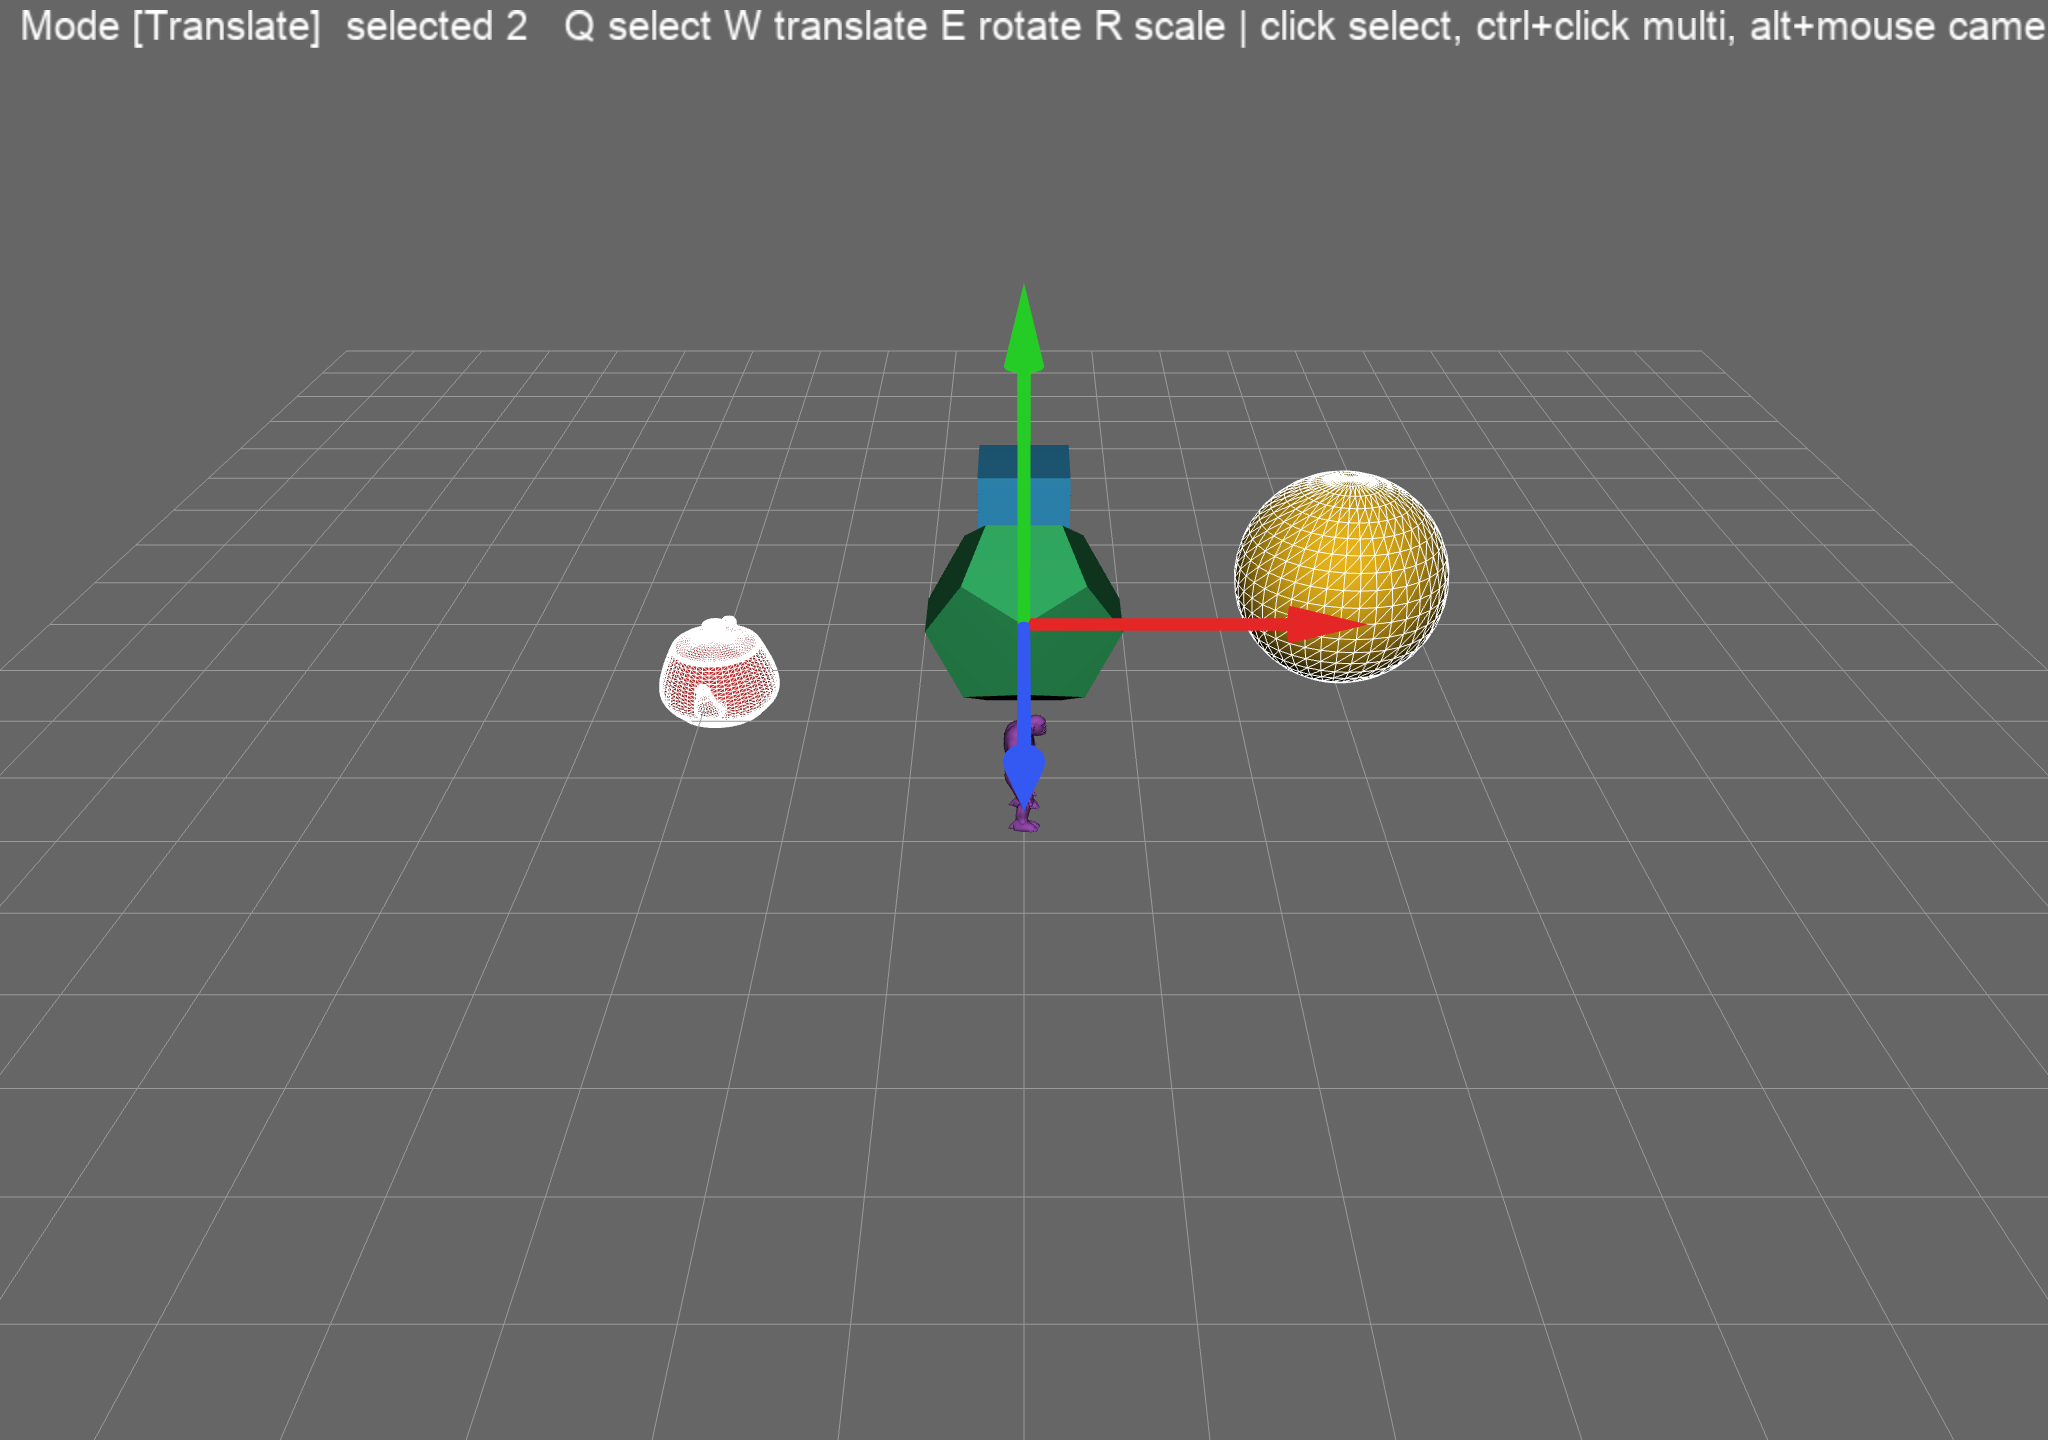
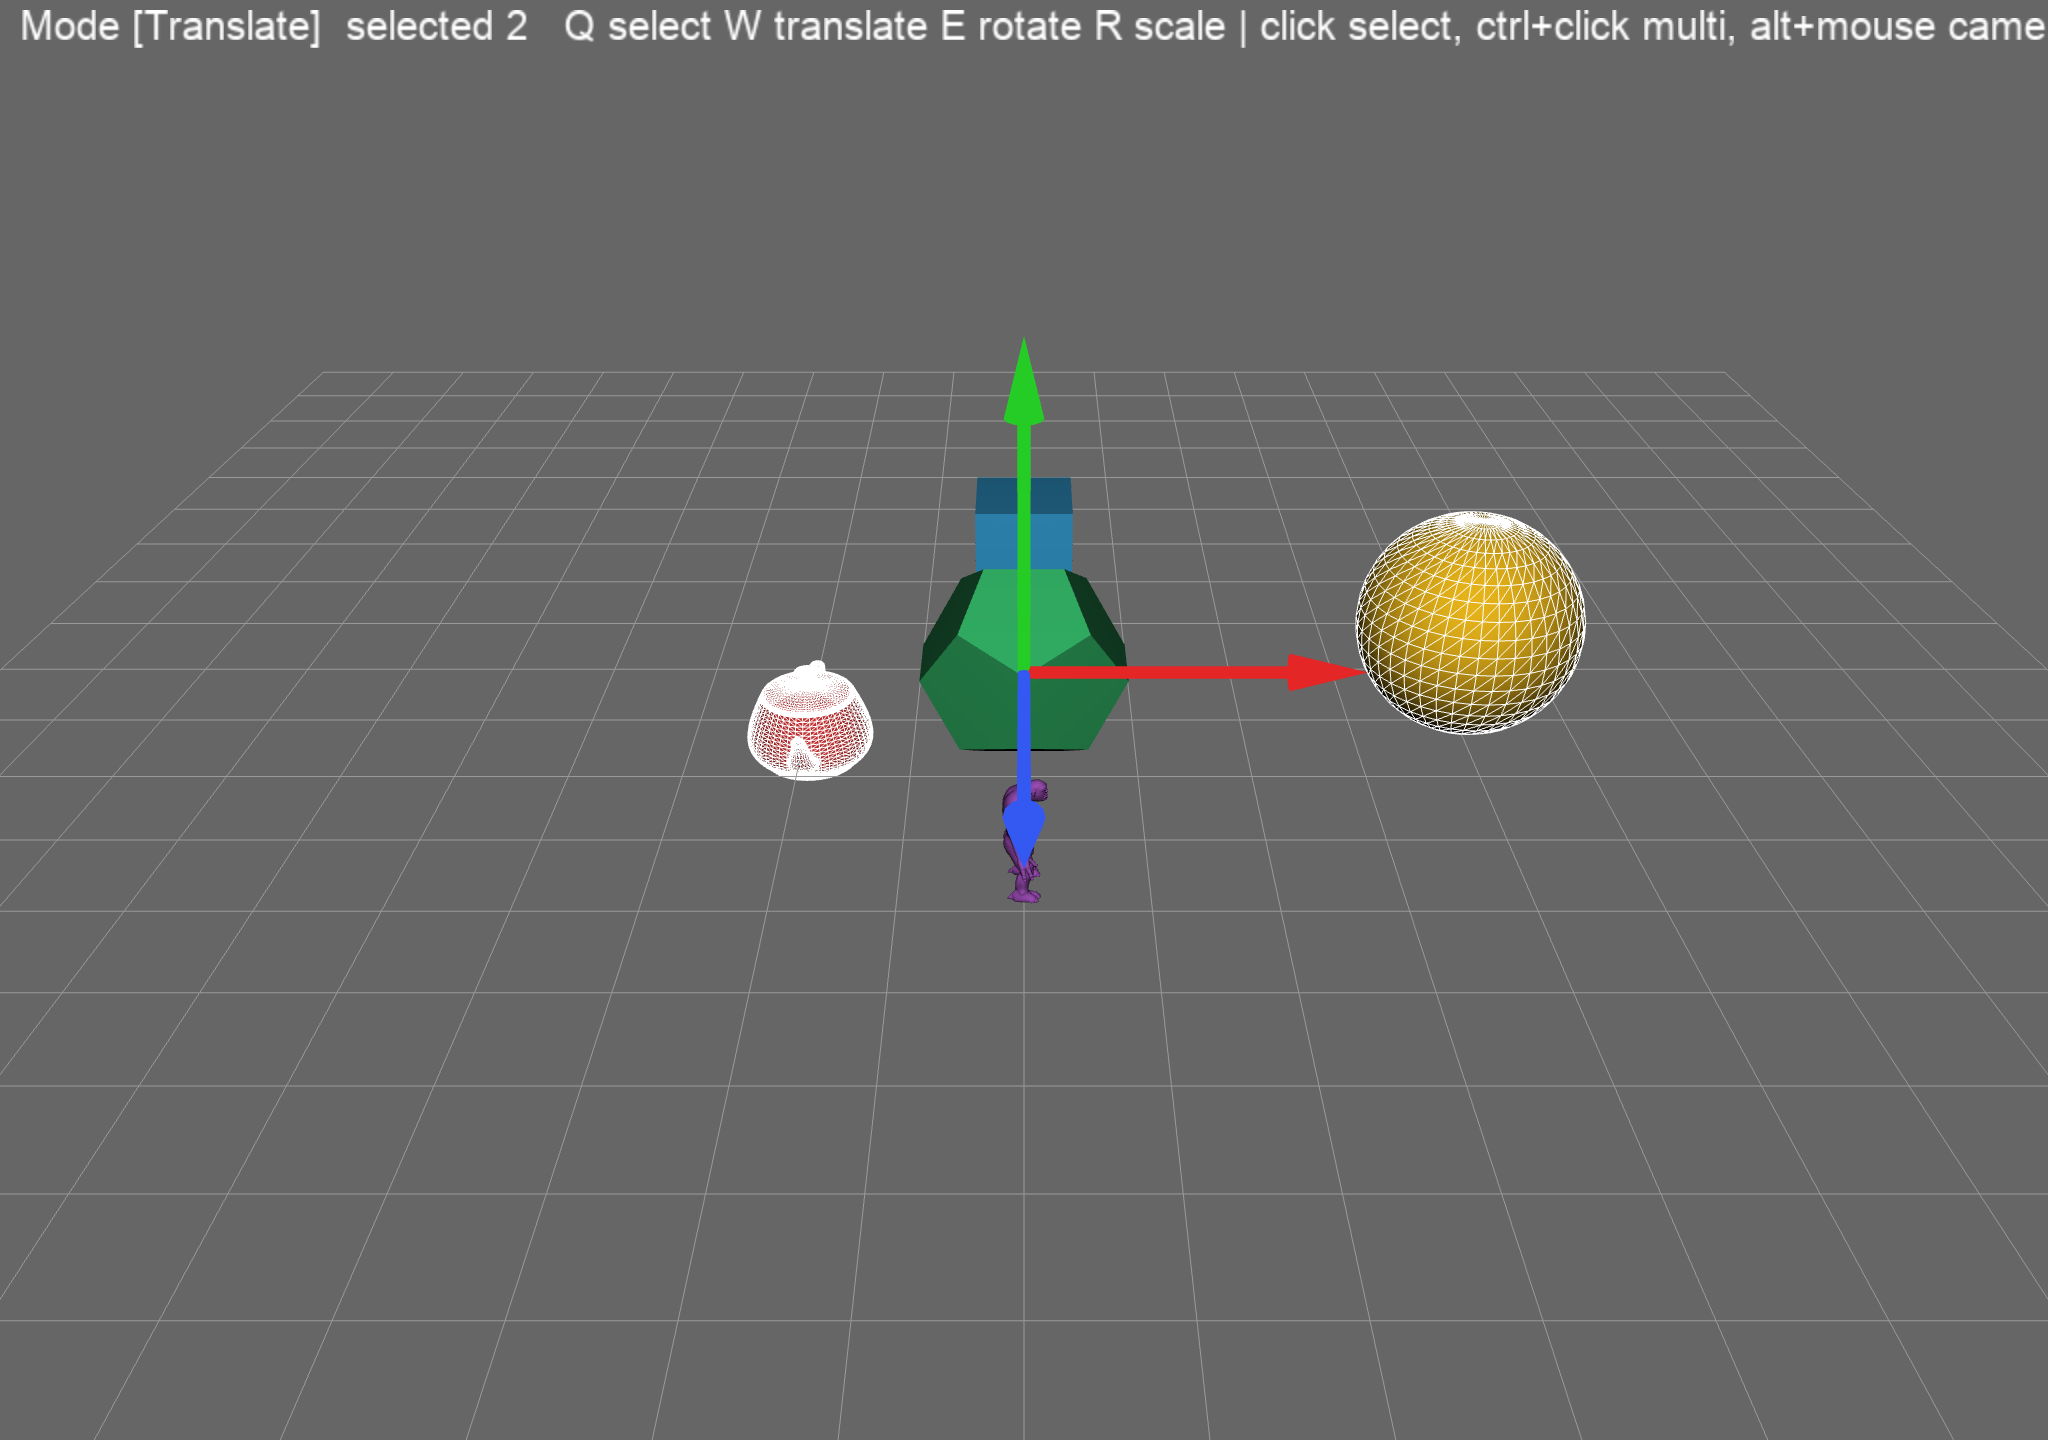
refactor: use Primitives.create(LINE_GRID) for the demo ground grid
Now that the library LINE_GRID primitive renders correctly, drop the
hand-built GL_LINES VAO (and its numpy/VAOFactory imports) in favour of
Primitives.create / Primitives.draw. Refresh the preview screenshot.

Changed region(s): [[0.3125, 0.2188, 0.7812, 0.625]]

diff --git a/SelectionManipulator/main.py b/SelectionManipulator/main.py
@@ -24,19 +24,10 @@ import sys
 import traceback
 from pathlib import Path
 
-import numpy as np
 import OpenGL.GL as gl
 from Manipulator import Axis, ManipMode, Manipulator
 from ncca.ngl import Mat4, Prims, Vec3, Vec4, logger, look_at, perspective
-from ncca.ngl.opengl import (
-    DefaultShader,
-    Primitives,
-    ShaderLib,
-    Text,
-    VAOFactory,
-    VAOType,
-    VertexData,
-)
+from ncca.ngl.opengl import DefaultShader, Primitives, ShaderLib, Text
 from PySide6.QtCore import Qt
 from PySide6.QtGui import QSurfaceFormat
 from PySide6.QtOpenGL import QOpenGLWindow
@@ -124,28 +115,11 @@ class MainWindow(QOpenGLWindow):
 
         Primitives.load_default_primitives()
         Primitives.create(Prims.SPHERE, "selSphere", 1.0, 40)
-        self.grid_vao = self._make_grid(20.0, 20)
+        Primitives.create(Prims.LINE_GRID, "grid", 20.0, 20.0, 20)
         Manipulator.create_geometry()
         Text.add_font(
             "Arial", str(Path(__file__).parent.parent / "font" / "Arial.ttf"), 20
         )
-
-    @staticmethod
-    def _make_grid(width: float, steps: int):
-        """Build a GL_LINES ground grid VAO (positions only)."""
-        half = width / 2.0
-        step = width / steps
-        verts = []
-        for i in range(steps + 1):
-            v = -half + i * step
-            verts += [[-half, 0.0, v], [half, 0.0, v], [v, 0.0, -half], [v, 0.0, half]]
-        data = np.array(verts, dtype=np.float32).flatten()
-        vao = VAOFactory.create_vao(VAOType.SIMPLE, gl.GL_LINES)
-        with vao:
-            vao.set_data(VertexData(data=data.data, size=data.size))
-            vao.set_vertex_attribute_pointer(0, 3, gl.GL_FLOAT, 0, 0)
-            vao.set_num_indices(data.size // 3)
-        return vao
 
     def scene_global_tx(self) -> Mat4:
         rot_x = Mat4().rotate_x(self.spin_x_face)
@@ -165,8 +139,7 @@ class MainWindow(QOpenGLWindow):
         ShaderLib.use(DefaultShader.COLOUR)
         ShaderLib.set_uniform("MVP", self.project @ self.view @ self.mouse_global_tx)
         ShaderLib.set_uniform("Colour", 0.6, 0.6, 0.6, 1.0)
-        with self.grid_vao:
-            self.grid_vao.draw()
+        Primitives.draw("grid")
 
         for obj in self.objects:
             obj.draw(self.mouse_global_tx, self.view, self.project)
